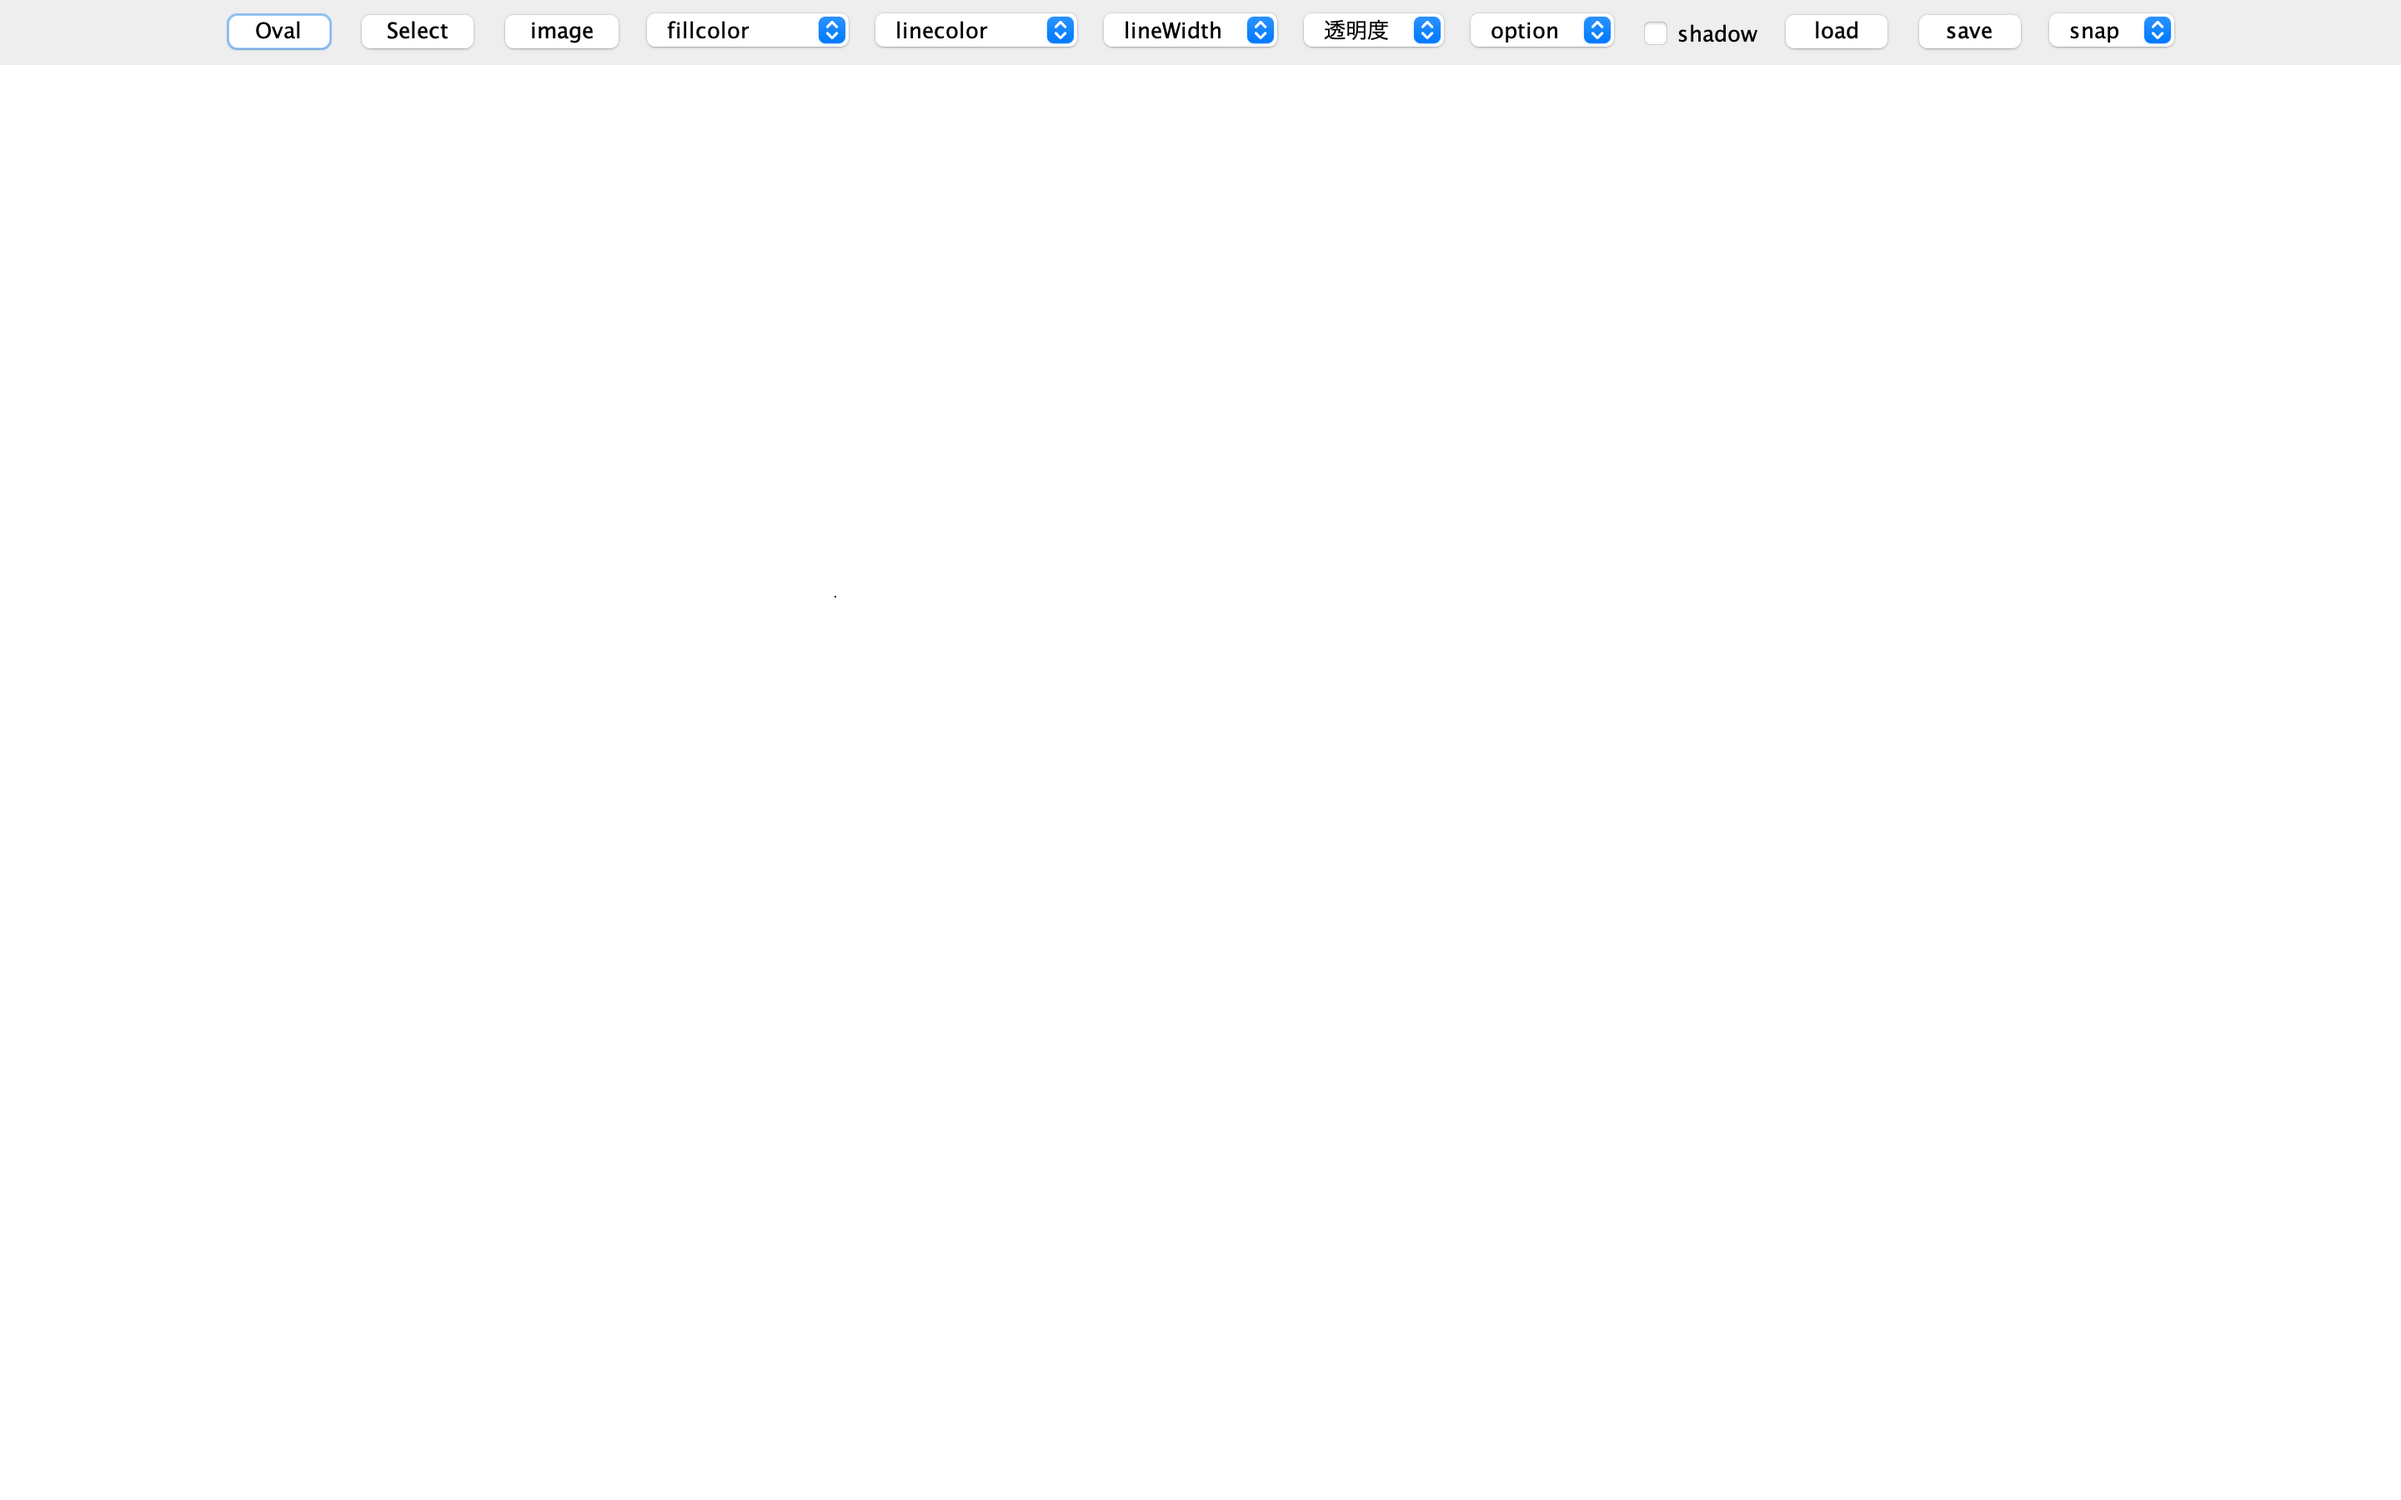
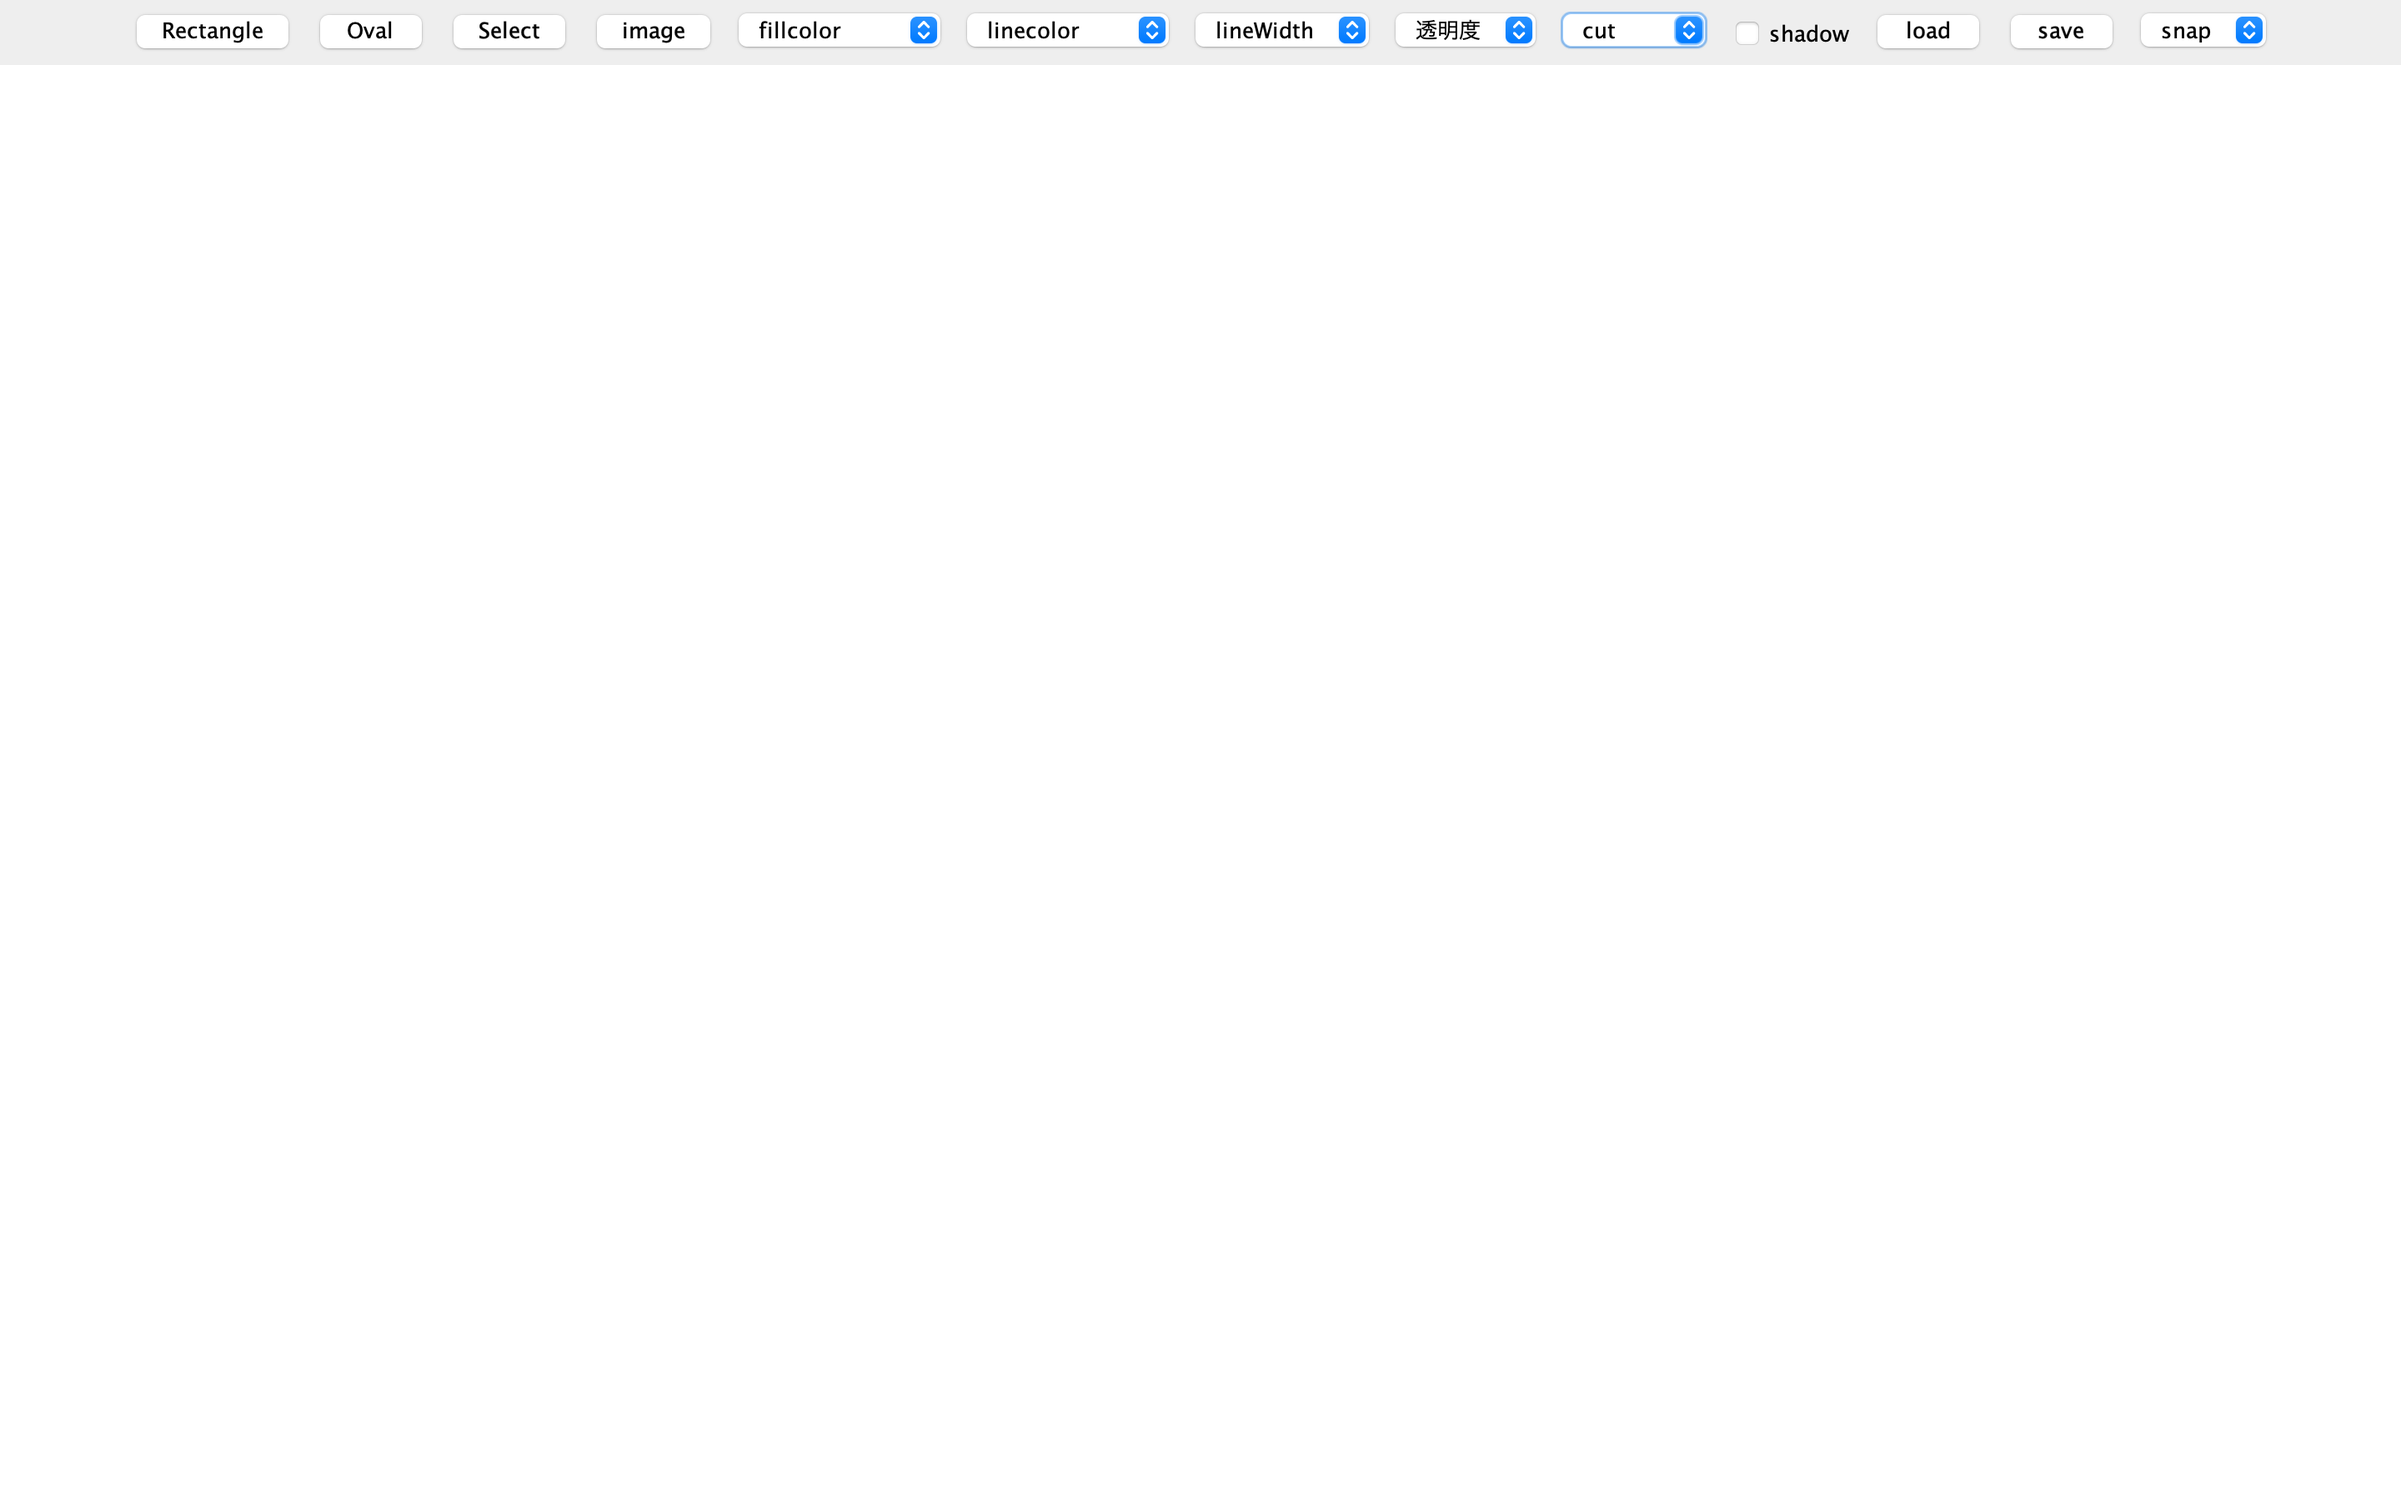
readme

Changed region(s): [[0.0625, 0.0, 0.9375, 0.0311]]

diff --git a/README.md b/README.md
@@ -6,4 +6,20 @@ javaを用いたgraphic user interfaceの作成
 $ javac MyApplication.java
 $ java MyApplication
 ```
-![pic1](https://user-images.githubusercontent.com/86920505/136647391-2e757a53-d249-44fc-9038-166304ed2882.png)
+
+<!-- ![](images/pic1.png) -->
+<img src="images/pic2.png" width="800">
+### 機能の説明
+
+図形の作成 -> 長方形(Rectangle),円形(Oval)  
+描画した画像の選択(select) 図形の形、色の変更が可能  
+図形の塗り色の指定(fillcolor)  
+図形の枠色の指定(linecolor)  
+枠線の指定(lineWidth)  
+透明度の指定(透明度)
+
+option
+図形を選択した状態でcut,copy,paste,delete
+
+load 図形のアップロード  
+save Canvasの保存
